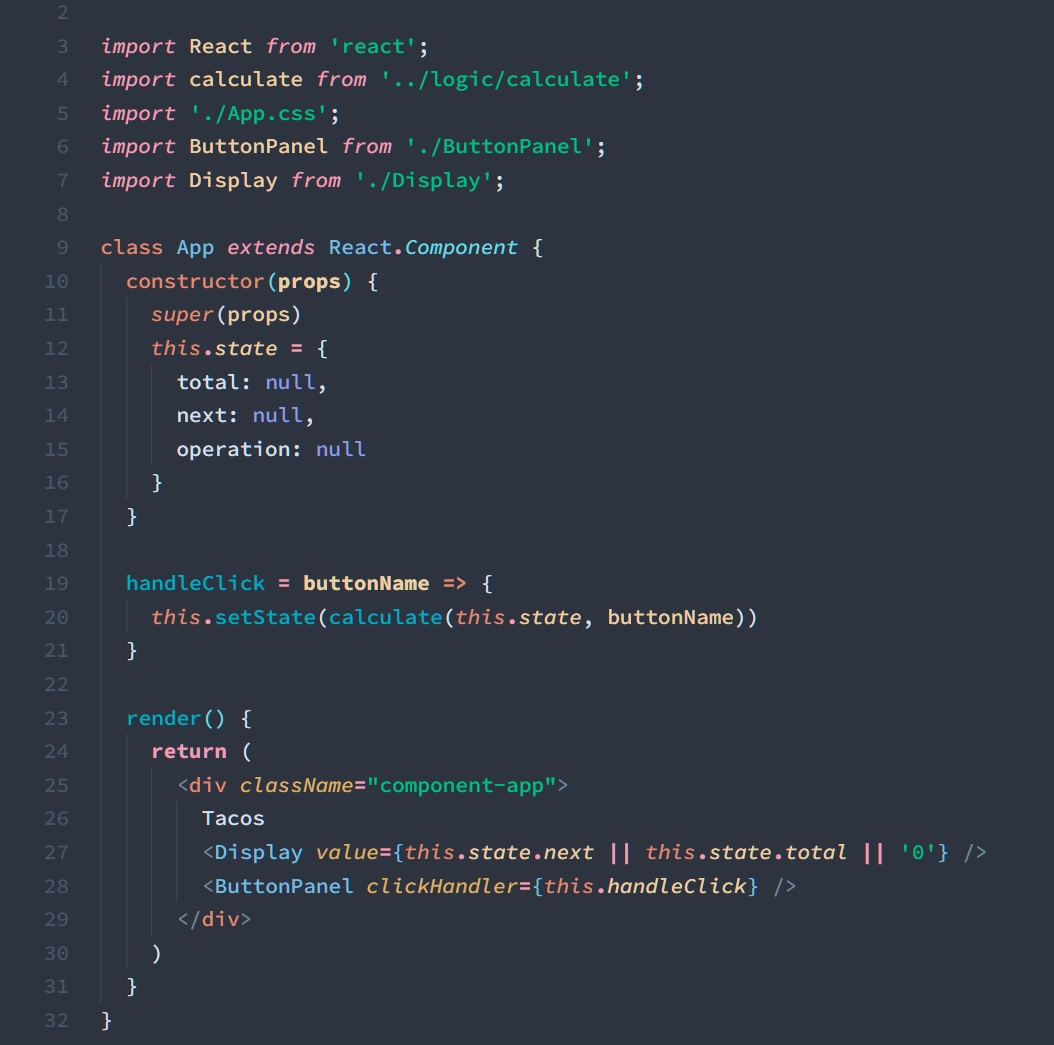
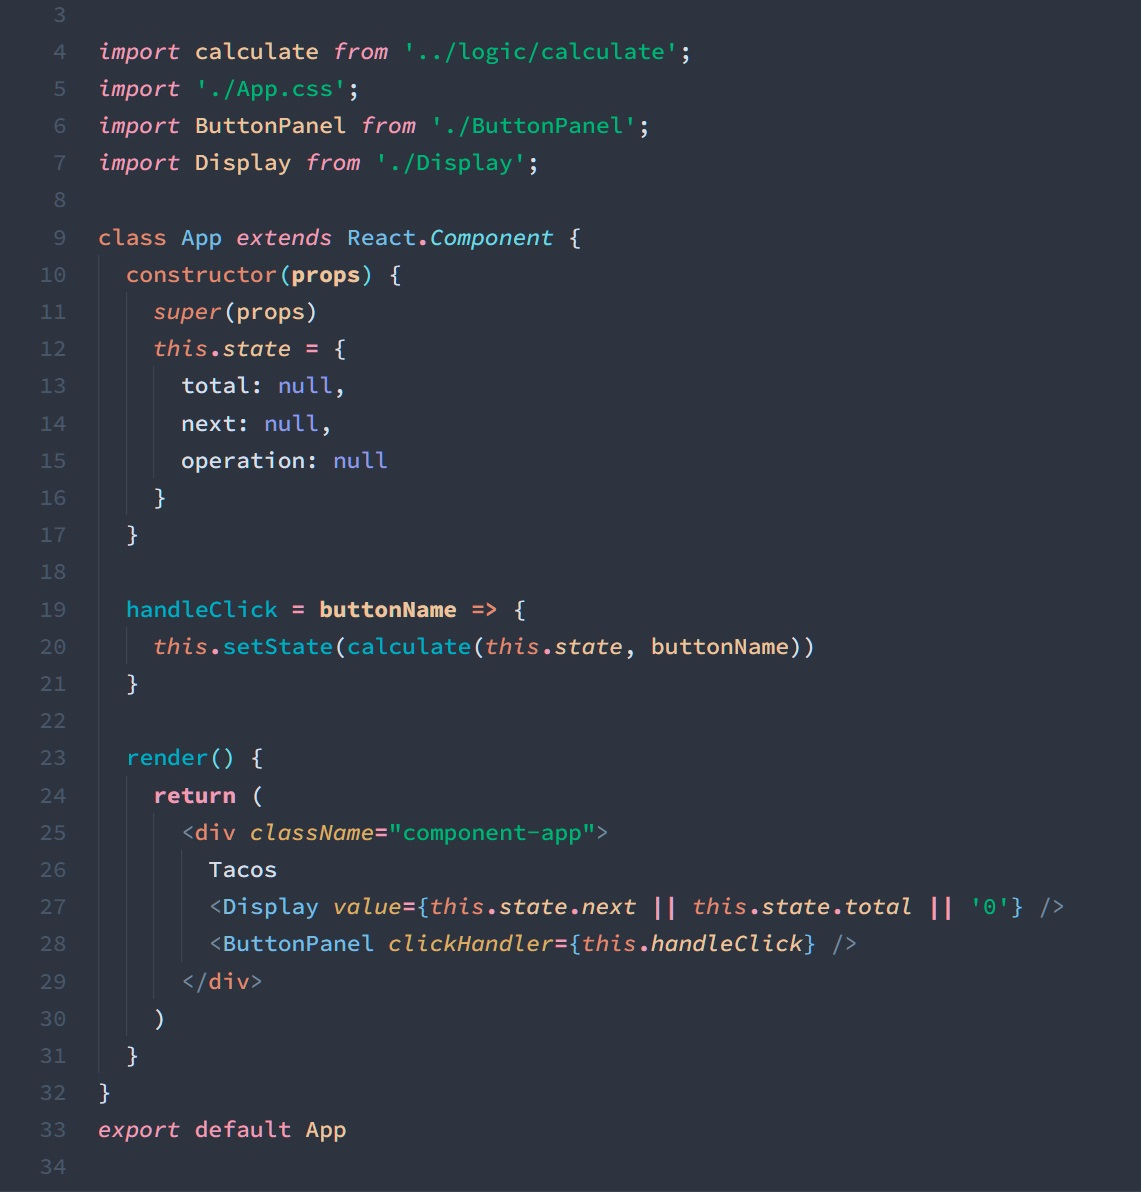
syntax color fine tuning

diff --git a/CHANGELOG.md b/CHANGELOG.md
@@ -4,7 +4,7 @@ All notable changes to the "arctis" extension will be documented in this file.
 
 Check [Keep a Changelog](http://keepachangelog.com/) for recommendations on how to structure this file.
 
-## [0.0.6] - 09-06-2021
+## [0.0.7] - 09-06-2021
 - Fine tuned the syntax colors a little more. Some colors seemed to attract too much focus.
 
 ## [0.0.5] - 09-05-2021
